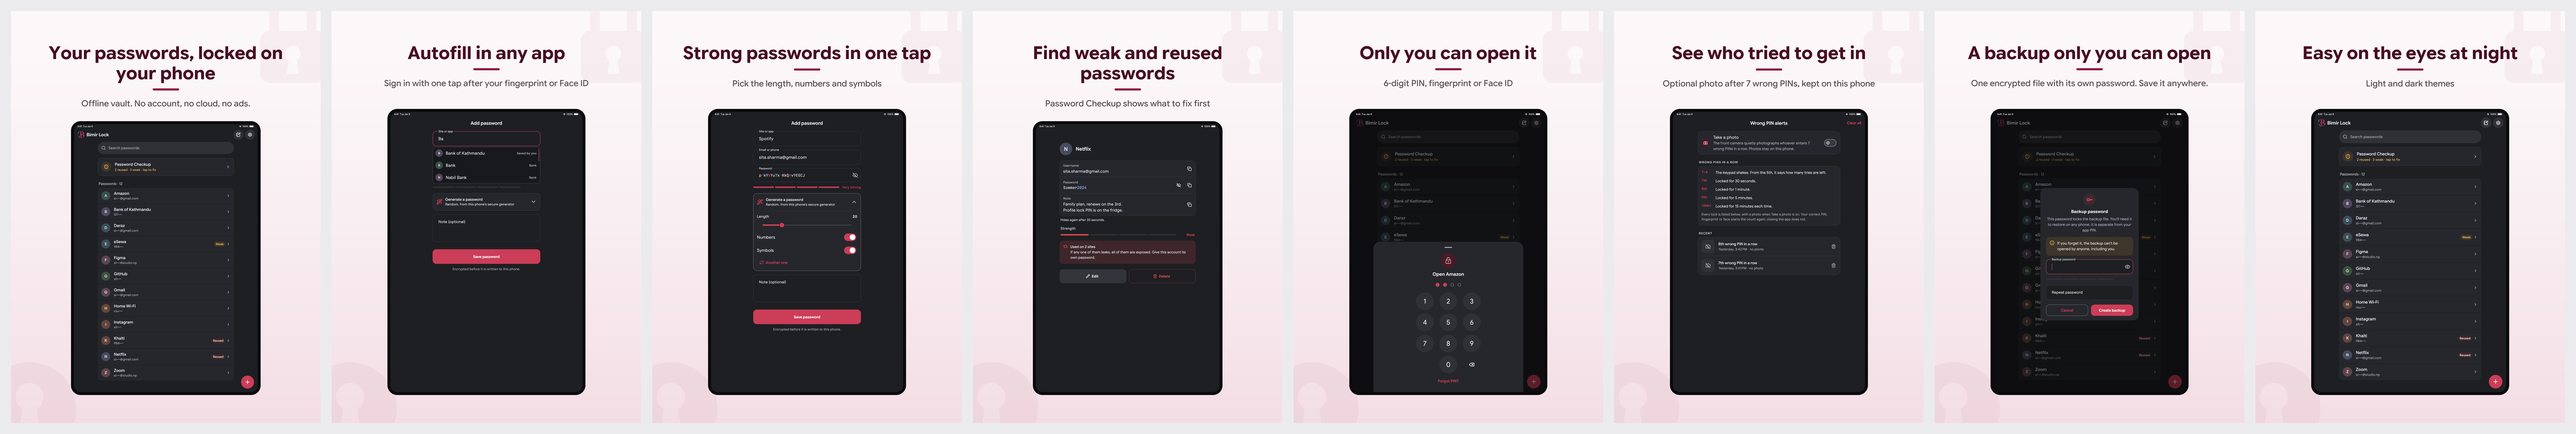
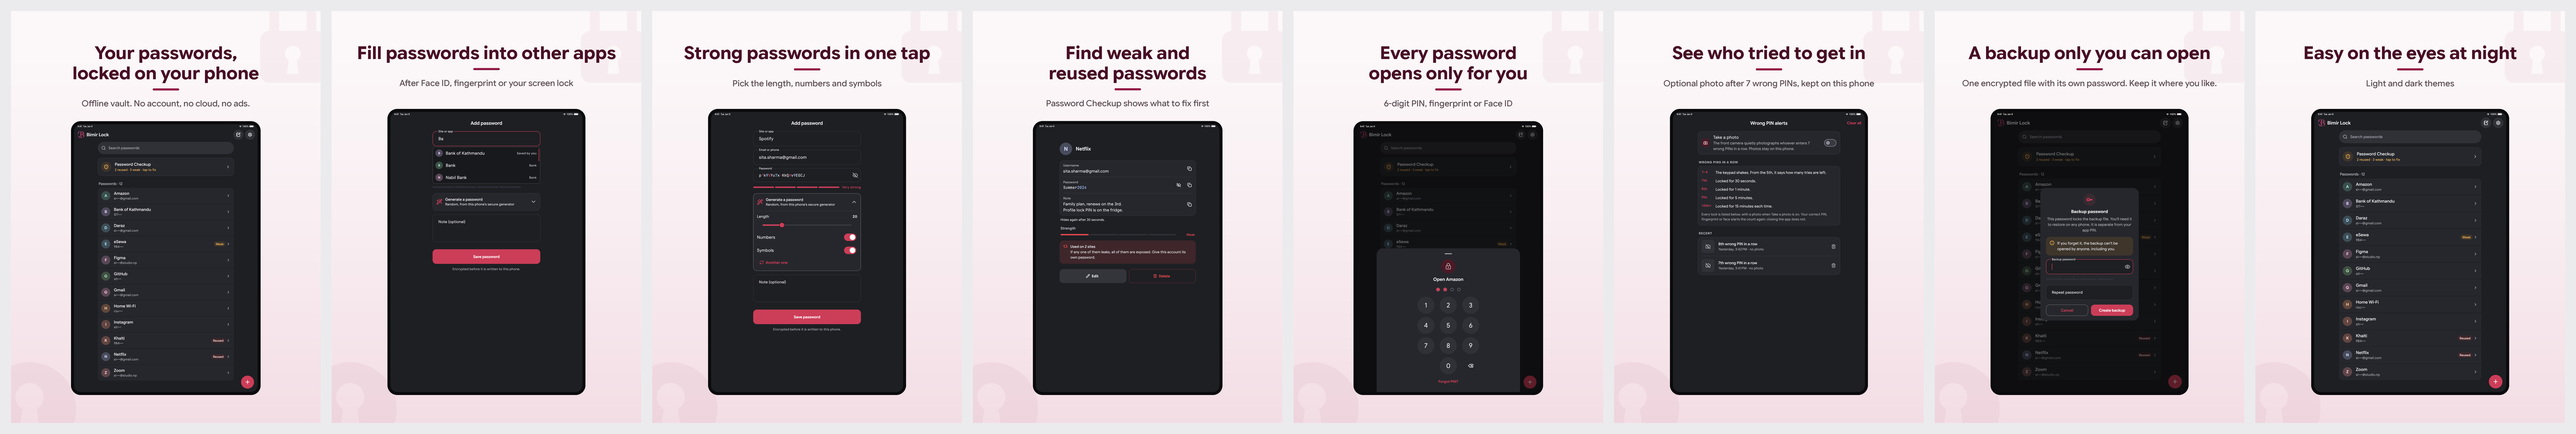
feat(listing): localized screenshot captions render in every script
- Complex scripts: Hindi, Nepali, Bengali, Thai and Arabic need raqm
  shaping or vowel signs detach and Arabic comes out unjoined. Pillow's
  wheel has raqm but loads fribidi at run time; the generator re-runs
  itself once with Homebrew's lib on the path, and warns if it can't.
- Per-script faces: the bold and medium styles inside each system .ttc
  (Kohinoor, Hiragino W7/W4, Apple SD Gothic Neo, Geeza Pro, Thonburi…).
- Balanced line breaks: no orphan word or character on a headline's
  last line, for spaced and unspaced scripts alike.
- iPhone 6.3" (1206x2622) export from the same panels, installed next to
  the 6.9" set: Apple's 2026 size table lists that class as required.
- Store locale map for all 20 listing languages (Play-only locales get
  no App Store screenshots).

diff --git a/tool/make_screenshots.py b/tool/make_screenshots.py
@@ -25,6 +25,7 @@ instead, with a warning — Play accepts it, but a real Android capture looks na
 
 Output
   listing/shots/out/<locale>/iphone/NN_<slug>.png        1320x2868  App Store 6.9"
+  listing/shots/out/<locale>/iphone_63/NN_<slug>.png     1206x2622  App Store 6.3" (same panel)
   listing/shots/out/<locale>/ipad/NN_<slug>.png          2064x2752  App Store 13"
   listing/shots/out/<locale>/phoneScreenshots/...        1080x1920  Play phone
   listing/shots/out/<locale>/sevenInchScreenshots/...    1600x2560  Play 7" tablet
@@ -40,7 +41,18 @@ import os
 import shutil
 import sys
 
-from PIL import Image, ImageDraw, ImageFont
+from PIL import Image, ImageDraw, ImageFont, features
+
+# Hindi, Nepali, Bengali, Thai and Arabic captions need complex text shaping (raqm),
+# or vowel signs land on the wrong letter and Arabic comes out unjoined and
+# backwards. Pillow's wheel carries raqm but loads fribidi at run time, and on this
+# Mac fribidi is Homebrew's, off the default search path — so re-run once with it on.
+_BREW_LIB = "/opt/homebrew/lib"
+if (not features.check("raqm") and not os.environ.get("BIMIR_SHOTS_REEXEC")
+        and os.path.isfile(os.path.join(_BREW_LIB, "libfribidi.0.dylib"))):
+    os.environ["DYLD_LIBRARY_PATH"] = _BREW_LIB + ":" + os.environ.get("DYLD_LIBRARY_PATH", "")
+    os.environ["BIMIR_SHOTS_REEXEC"] = "1"
+    os.execv(sys.executable, [sys.executable] + sys.argv)
 
 ROOT = os.path.dirname(os.path.dirname(os.path.abspath(__file__)))
 # SHOTS_RAW / SHOTS_OUT let a preview run from other captures without touching these.
@@ -54,22 +66,24 @@ F_MED = os.path.join(FONT_DIR, "GoogleSansFlex-Medium.ttf")
 
 # Google Sans Flex covers Latin, Greek, Cyrillic and Vietnamese. Other scripts take
 # the macOS system face for that script, so a localized caption never renders tofu.
+# lang -> (font file candidates, style names for the headline, for the subtitle)
+_HIRAGINO = "/System/Library/Fonts/\u30d2\u30e9\u30ae\u30ce\u89d2\u30b4\u30b7\u30c3\u30af {}.ttc"
 SYSTEM_FONTS = {
-    "hi": "/System/Library/Fonts/Kohinoor.ttc",
-    "ne": "/System/Library/Fonts/Kohinoor.ttc",
-    "mr": "/System/Library/Fonts/Kohinoor.ttc",
-    "bn": "/System/Library/Fonts/KohinoorBangla.ttc",
-    "ta": "/System/Library/Fonts/Supplemental/Tamil MN.ttc",
-    "te": "/System/Library/Fonts/KohinoorTelugu.ttc",
-    "ja": "/System/Library/Fonts/ヒラギノ角ゴシック W7.ttc",
-    "ko": "/System/Library/Fonts/AppleSDGothicNeo.ttc",
-    "zh": "/System/Library/Fonts/Hiragino Sans GB.ttc",
-    "th": "/System/Library/Fonts/Supplemental/Thonburi.ttc",
-    "ar": "/System/Library/Fonts/GeezaPro.ttc",
-    "he": "/System/Library/Fonts/ArialHB.ttc",
-    "iw": "/System/Library/Fonts/ArialHB.ttc",
-    "fa": "/System/Library/Fonts/GeezaPro.ttc",
-    "ur": "/System/Library/Fonts/GeezaPro.ttc",
+    "hi": (["/System/Library/Fonts/Kohinoor.ttc"], ("Bold",), ("Medium",)),
+    "ne": (["/System/Library/Fonts/Kohinoor.ttc"], ("Bold",), ("Medium",)),
+    "mr": (["/System/Library/Fonts/Kohinoor.ttc"], ("Bold",), ("Medium",)),
+    "bn": (["/System/Library/Fonts/KohinoorBangla.ttc"], ("Bold",), ("Medium",)),
+    "ta": (["/System/Library/Fonts/Supplemental/Tamil MN.ttc"], ("Bold",), ("Regular",)),
+    "te": (["/System/Library/Fonts/KohinoorTelugu.ttc"], ("Bold",), ("Medium",)),
+    "ja": ([_HIRAGINO.format("W7"), _HIRAGINO.format("W4")], ("W7",), ("W4", "W7")),
+    "ko": (["/System/Library/Fonts/AppleSDGothicNeo.ttc"], ("Bold",), ("Medium",)),
+    "zh": (["/System/Library/Fonts/Hiragino Sans GB.ttc"], ("W6",), ("W3",)),
+    "th": (["/System/Library/Fonts/Supplemental/Thonburi.ttc"], ("Bold",), ("Regular",)),
+    "ar": (["/System/Library/Fonts/GeezaPro.ttc"], ("Bold",), ("Regular",)),
+    "fa": (["/System/Library/Fonts/GeezaPro.ttc"], ("Bold",), ("Regular",)),
+    "ur": (["/System/Library/Fonts/GeezaPro.ttc"], ("Bold",), ("Regular",)),
+    "he": (["/System/Library/Fonts/ArialHB.ttc"], ("Bold",), ("Regular",)),
+    "iw": (["/System/Library/Fonts/ArialHB.ttc"], ("Bold",), ("Regular",)),
 }
 
 # Brand: the logo crimson (#901743, the app's light-theme primary) on a near-white
@@ -102,6 +116,11 @@ PLAY_TABLET = Spec("tabletScreenshots", (1600, 2560), 0.060, 0.029, 0.70, 0.245,
 
 BAR_MODE = None  # --status-bar=… overrides panels.json for every folder
 
+# Extra exports of a finished panel. Apple's 2026 size table names the 6.3" class
+# (iPhone 17 / 16 / 18 Pro) as required next to the 6.9" one; fastlane files 1206x2622
+# under APP_IPHONE_61. Same artwork, so no extra captures are needed.
+EXTRA_SIZES = {"iphone": [("iphone_63", (1206, 2622))]}
+
 # set name in panels.json -> (spec, raw folder, fallback raw folder, output folders)
 SETS = {
     "iphone": (IPHONE, "iphone", None, ["iphone"]),
@@ -112,11 +131,14 @@ SETS = {
 }
 
 # Store locale codes differ between the two stores; captions are keyed by the Play one.
+# Play-only locales (ne-NP, es-US, zh-HK) map to None: no App Store screenshots.
 APPLE_LOCALE = {
-    "en-US": "en-US", "es-ES": "es-ES", "es-419": "es-MX", "pt-BR": "pt-BR", "de-DE": "de-DE",
-    "fr-FR": "fr-FR", "it-IT": "it", "nl-NL": "nl-NL", "pl-PL": "pl", "tr-TR": "tr",
-    "ru-RU": "ru", "uk": "uk", "id": "id", "vi": "vi", "th": "th", "ja-JP": "ja",
-    "ko-KR": "ko", "zh-CN": "zh-Hans", "zh-TW": "zh-Hant", "hi-IN": "hi", "ar": "ar-SA",
+    "en-US": "en-US", "es-ES": "es-ES", "es-419": "es-MX", "es-US": None, "pt-BR": "pt-BR",
+    "pt-PT": "pt-PT", "de-DE": "de-DE", "fr-FR": "fr-FR", "fr-CA": "fr-CA", "it-IT": "it",
+    "nl-NL": "nl-NL", "pl-PL": "pl", "tr-TR": "tr", "ru-RU": "ru", "uk": "uk", "id": "id",
+    "vi": "vi", "th": "th", "ja-JP": "ja", "ko-KR": "ko", "zh-CN": "zh-Hans",
+    "zh-TW": "zh-Hant", "zh-HK": None, "hi-IN": "hi", "bn-BD": "bn-BD", "ar": "ar-SA",
+    "ne-NP": None,
 }
 
 
@@ -341,19 +363,32 @@ def device(canvas, screen, spec):
 
 
 def font_for(locale, bold):
+    """(file, face index) for this locale's headline (bold) or subtitle face."""
     lang = locale.split("-")[0]
-    path = SYSTEM_FONTS.get(lang)
-    if path and os.path.isfile(path):
-        return path
-    return F_BOLD if bold else F_MED
+    if lang not in SYSTEM_FONTS:
+        return (F_BOLD if bold else F_MED), 0
+    files, bold_styles, med_styles = SYSTEM_FONTS[lang]
+    # styles in priority order, so a subtitle prefers W4 even when the W7 file comes first
+    for want in (bold_styles if bold else med_styles):
+        for path in files:
+            if not os.path.isfile(path):
+                continue
+            for i in range(32):
+                try:
+                    style = ImageFont.truetype(path, 12, index=i).getname()[1]
+                except OSError:
+                    break
+                if style == want:
+                    return path, i
+    existing = [p for p in files if os.path.isfile(p)]
+    return (existing[0], 0) if existing else ((F_BOLD if bold else F_MED), 0)
 
 
-def wrap(d, text, font, max_w):
-    # CJK and Thai have no spaces between words: break between characters instead.
-    if " " not in text.strip():
-        units, joiner = list(text), ""
-    else:
-        units, joiner = text.split(), " "
+def truetype(face, px):
+    return ImageFont.truetype(face[0], px, index=face[1])
+
+
+def _greedy(d, units, joiner, font, max_w):
     lines, cur = [], ""
     for u in units:
         trial = (cur + joiner + u) if cur else u
@@ -367,6 +402,28 @@ def wrap(d, text, font, max_w):
     return lines
 
 
+def wrap(d, text, font, max_w):
+    """Break into as few lines as fit, then even them out: no orphan word or
+    character on the last line ("Strong passwords / in one tap", not "… in / one tap")."""
+    # CJK and Thai have no spaces between words: break between characters instead.
+    if " " not in text.strip():
+        units, joiner = list(text), ""
+    else:
+        units, joiner = text.split(), " "
+    lines = _greedy(d, units, joiner, font, max_w)
+    if len(lines) < 2:
+        return lines
+    lo = max(d.textlength(u, font=font) for u in units)
+    hi = max_w
+    while hi - lo > 2:   # narrowest width that still gives the same number of lines
+        mid = (lo + hi) / 2
+        if len(_greedy(d, units, joiner, font, mid)) <= len(lines):
+            hi = mid
+        else:
+            lo = mid
+    return _greedy(d, units, joiner, font, hi)
+
+
 def caption(img, spec, head, sub, locale):
     w, h = spec.canvas
     d = ImageDraw.Draw(img)
@@ -374,13 +431,13 @@ def caption(img, spec, head, sub, locale):
     fb, fm = font_for(locale, True), font_for(locale, False)
 
     px = int(w * spec.head)
-    fh = ImageFont.truetype(fb, px)
+    fh = truetype(fb, px)
     lines = wrap(d, head, fh, w - 2 * margin)
     # shrink rather than run to three lines; two lines is fine
     while (len(lines) > 2 or any(d.textlength(l, font=fh) > w - 2 * margin for l in lines)) \
             and px > w * spec.head * 0.70:
         px = int(px * 0.95)
-        fh = ImageFont.truetype(fb, px)
+        fh = truetype(fb, px)
         lines = wrap(d, head, fh, w - 2 * margin)
 
     line_h = int(px * 1.14)
@@ -397,12 +454,12 @@ def caption(img, spec, head, sub, locale):
     d.rounded_rectangle([w / 2 - rw / 2, ry, w / 2 + rw / 2, ry + rh], radius=rh // 2, fill=RULE)
 
     sp = int(w * spec.sub)
-    fs = ImageFont.truetype(fm, sp)
+    fs = truetype(fm, sp)
     y = ry + rh + int(sp * 0.9)
     sub_lines = wrap(d, sub, fs, w - 2 * margin)
     while len(sub_lines) > 2 and sp > w * spec.sub * 0.75:
         sp = int(sp * 0.95)
-        fs = ImageFont.truetype(fm, sp)
+        fs = truetype(fm, sp)
         sub_lines = wrap(d, sub, fs, w - 2 * margin)
     for ln in sub_lines:
         d.text((w / 2, y), ln, font=fs, fill=SUB, anchor="ma")
@@ -474,6 +531,10 @@ def build(locale, captions, panels):
             for out_folder in outs:
                 dst = os.path.join(OUT, locale, out_folder, f"{i:02d}_{slug}.png")
                 img.save(dst, optimize=True)
+            for extra, size in EXTRA_SIZES.get(set_name, []):
+                os.makedirs(os.path.join(OUT, locale, extra), exist_ok=True)
+                img.resize(size, Image.LANCZOS).save(
+                    os.path.join(OUT, locale, extra, f"{i:02d}_{slug}.png"), optimize=True)
             made.append(os.path.join(OUT, locale, outs[0], f"{i:02d}_{slug}.png"))
         contact_sheet(made, os.path.join(OUT, f"_contact_{locale}_{set_name}.png"))
         report.append((set_name, len(made), len(slugs), missing, borrowed))
@@ -488,7 +549,7 @@ def install(locale):
         shutil.rmtree(dst, ignore_errors=True)
         os.makedirs(dst)
         # deliver reads one flat folder per locale and sorts by name, so prefix the set
-        for sub, tag in (("iphone", "a"), ("ipad", "b")):
+        for sub, tag in (("iphone", "a"), ("iphone_63", "c"), ("ipad", "b")):
             d = os.path.join(src, sub)
             for f in sorted(os.listdir(d)) if os.path.isdir(d) else []:
                 shutil.copyfile(os.path.join(d, f), os.path.join(dst, f"{tag}{f}"))
@@ -512,6 +573,9 @@ def main():
             BAR_MODE = a.split("=", 1)[1]
             if BAR_MODE not in ("keep", "replace", "add"):
                 sys.exit("--status-bar must be keep, replace or add")
+    if not features.check("raqm"):
+        print("warning: no raqm text shaping — Devanagari, Bengali, Thai and Arabic "
+              "captions will render wrongly (brew install libraqm)")
     with open(os.path.join(CFG, "panels.json"), encoding="utf-8") as f:
         panels = json.load(f)
     cap_dir = os.path.join(CFG, "captions")

diff --git a/listing/shots/README.md b/listing/shots/README.md
@@ -11,7 +11,9 @@ listing/shots/raw/android_phone/<slug>.png   Android phone (Pixel 9 Pro AVD or y
 listing/shots/raw/android_tablet/<slug>.png  Pixel Tablet AVD, PORTRAIT    1600 x 2560
 ```
 
-All portrait. 8 slugs per device = 32 captures. If you skip the Android ones, the
+All portrait. 8 slugs per device = 32 captures. The App Store's 6.3" iPhone size
+(1206 x 2622, which Apple's 2026 table lists as required) is exported from the
+same iPhone captures — no extra screenshots needed. If you skip the Android ones, the
 iPhone/iPad captures are reused for Play (it works, but a real Android capture
 looks native: Android status bar, Android autofill dropdown).
 
